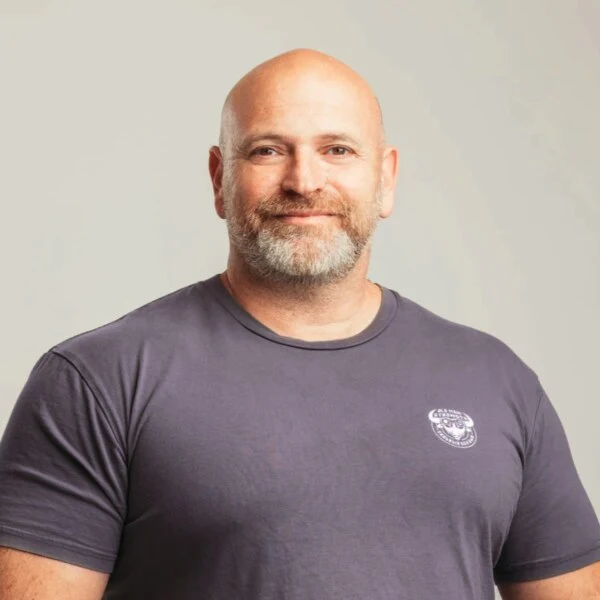
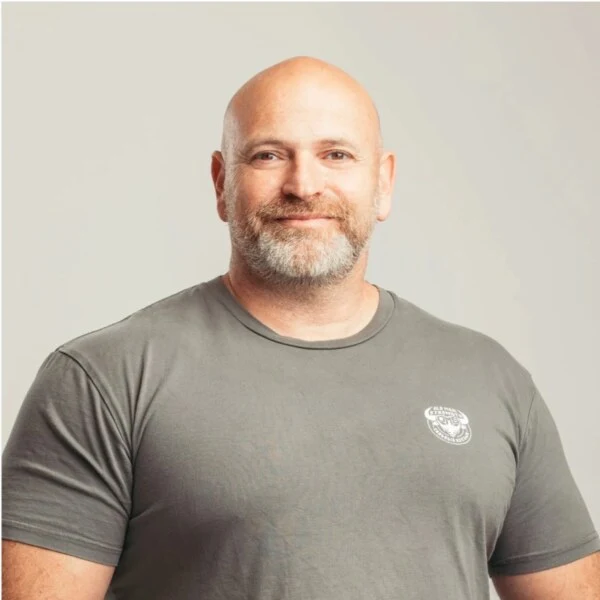
About: restore the original portrait (per Ilan's preference)

diff --git a/index.html b/index.html
@@ -352,7 +352,7 @@
         </div>
         <div class="about-content">
             <div class="about-photo-grid reveal">
-                <picture><source srcset="images/portrait-new.webp?v=2" type="image/webp"><img src="images/portrait-new.jpg?v=2" alt="Ilan Lenzner" class="about-portrait" loading="lazy" decoding="async"></picture>
+                <picture><source srcset="images/portrait-new.webp?v=3" type="image/webp"><img src="images/portrait-new.jpg?v=3" alt="Ilan Lenzner" class="about-portrait" loading="lazy" decoding="async"></picture>
                 <div class="about-bio">
                     <p>From <em>3D animation</em> to <em>interactive ads</em> to <em>AI product engineering</em>.</p>
                     <p>Today I architect <strong>autonomous AI pipelines</strong> that generate, animate, and ship creative assets end-to-end, turning workflows that once took <strong>days into minutes</strong>.</p>
